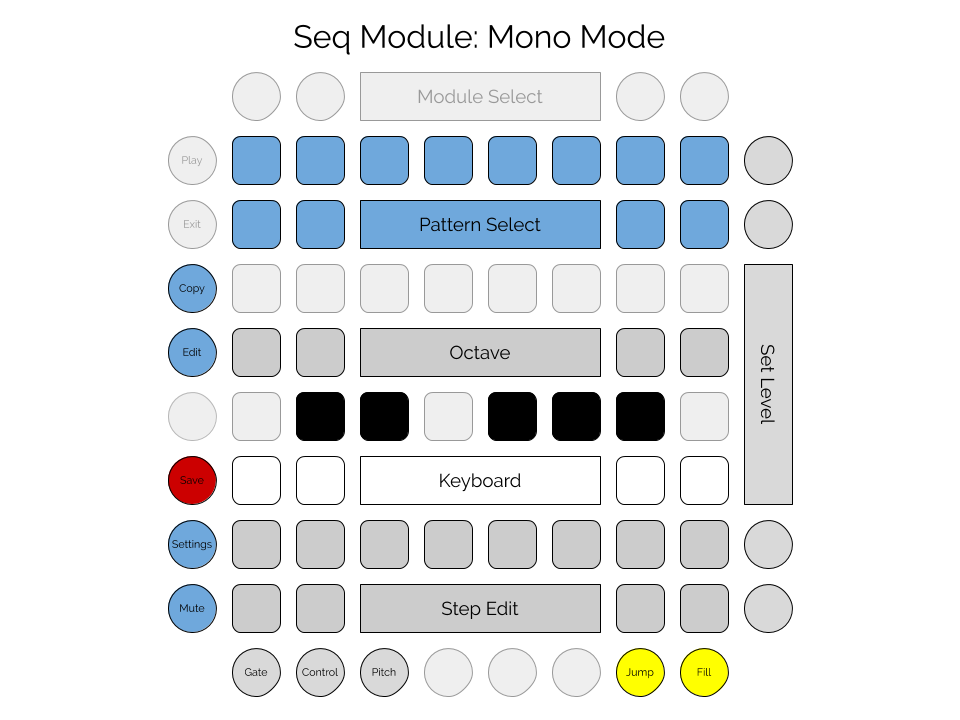
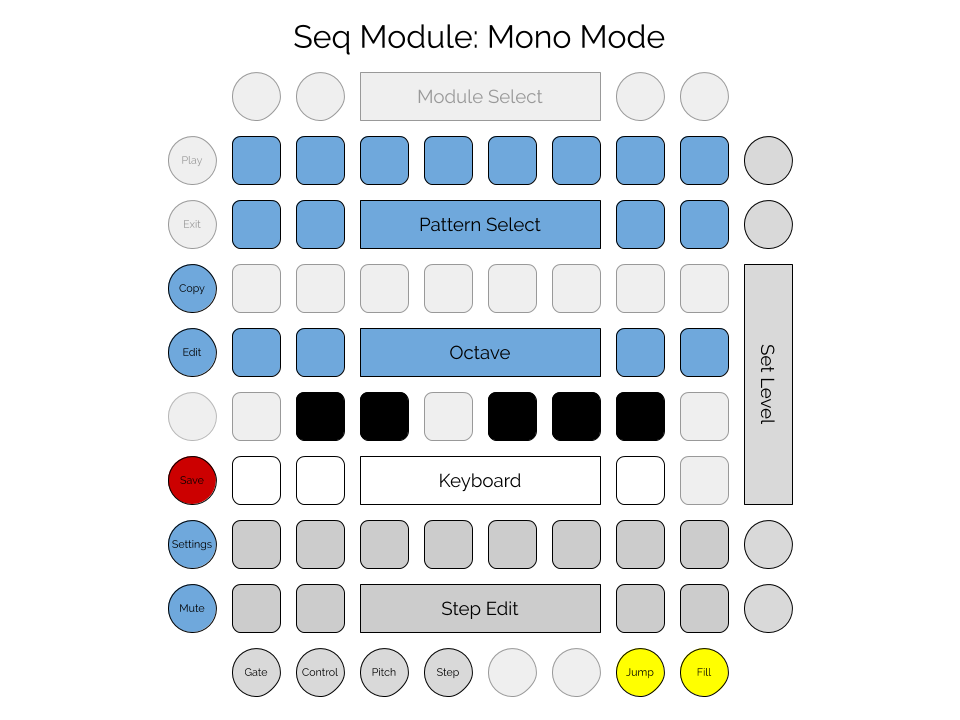
Added a step-entry view to the Seq mono mode

Changed region(s): [[0.2188, 0.4583, 0.7812, 0.5194], [0.4375, 0.9167, 0.5, 0.9472]]

diff --git a/src/main/java/net/perkowitz/issho/hachi/modules/seq/SeqModule.java b/src/main/java/net/perkowitz/issho/hachi/modules/seq/SeqModule.java
@@ -25,8 +25,7 @@ import java.util.Set;
 
 import static net.perkowitz.issho.hachi.modules.seq.SeqStep.GateMode.*;
 import static net.perkowitz.issho.hachi.modules.seq.SeqUtil.*;
-import static net.perkowitz.issho.hachi.modules.seq.SeqUtil.EditMode.CONTROL;
-import static net.perkowitz.issho.hachi.modules.seq.SeqUtil.EditMode.GATE;
+import static net.perkowitz.issho.hachi.modules.seq.SeqUtil.EditMode.*;
 import static net.perkowitz.issho.hachi.modules.seq.SeqUtil.SeqMode.BEAT;
 import static net.perkowitz.issho.hachi.modules.seq.SeqUtil.SeqMode.MONO;
 
@@ -59,6 +58,7 @@ public class SeqModule extends MidiModule implements Module, Clockable, GridList
     private int currentMeasure = 0;
     private int currentSeq = 0;
     private int currentPulse = 0;
+    private int currentOctave = 4;
 
     private SeqPatternFill patternFill = null;
 
@@ -397,6 +397,7 @@ public class SeqModule extends MidiModule implements Module, Clockable, GridList
     private void onControlPressed(GridControl control, int velocity) {
 
         control.press();
+//        System.out.printf("Control pressed: %s, %d\n", control, control.getIndex());
 
         // these controls apply in main view or settings view
         if (control.equals(settingsControl)) {
@@ -456,8 +457,41 @@ public class SeqModule extends MidiModule implements Module, Clockable, GridList
             step.setSemitone(index);
             seqDisplay.drawKeyboard(memory);
 
+        } else if (mode == MONO && editMode == STEP && keyboardControls.contains(control)) {
+            // have to check this before trackSelectControls
+            int index = keyboardControls.getIndex(control);
+            SeqStep step = memory.getSelectedTrack().getStep(selectedStep);
+            step.set(PLAY, index, currentOctave, velocity);
+            selectedStep = (selectedStep + 1) % STEP_COUNT;
+            memory.selectStep(selectedStep);
+            seqDisplay.drawKeyboard(memory);
+            seqDisplay.drawSteps(memory);
+            seqDisplay.drawModifiers(memory);
+
+        } else if (mode == MONO && editMode == STEP && stepRestControl.equals(control)) {
+            SeqStep step = memory.getSelectedTrack().getStep(selectedStep);
+            step.setGateMode(REST);
+            selectedStep = (selectedStep + 1) % STEP_COUNT;
+            memory.selectStep(selectedStep);
+            seqDisplay.drawKeyboard(memory);
+            seqDisplay.drawSteps(memory);
+            seqDisplay.drawModifiers(memory);
+
+        } else if (mode == MONO && editMode == STEP && stepTieControl.equals(control)) {
+            SeqStep step = memory.getSelectedTrack().getStep(selectedStep);
+            step.setGateMode(TIE);
+            selectedStep = (selectedStep + 1) % STEP_COUNT;
+            memory.selectStep(selectedStep);
+            seqDisplay.drawKeyboard(memory);
+            seqDisplay.drawSteps(memory);
+            seqDisplay.drawModifiers(memory);
+
+        } else if (mode == MONO && (editMode == GATE || editMode == STEP) && trackSelectControls.contains(control)) {
+            // if it's in the trackSelectControls but not in the keyboard, do nothing
+
         } else if (trackSelectControls.contains(control)) {
             int index = trackSelectControls.getIndex(control);
+            System.out.printf("Trk select: %d\n", index);
             switch (editMode) {
                 case GATE:
                     if (mode == BEAT) {
@@ -483,35 +517,17 @@ public class SeqModule extends MidiModule implements Module, Clockable, GridList
                     break;
             }
 
-        } else if (mode == MONO && octaveControls.contains(control)) {
+        } else if (mode == MONO && editMode == GATE && octaveControls.contains(control)) {
             int index = octaveControls.getIndex(control);
             SeqStep step = memory.getSelectedTrack().getStep(selectedStep);
             step.setOctave(index);
             seqDisplay.drawModifiers(memory);
 
-        } else if (mode == MONO && keyboardControls.contains(control)) {
-            int index = keyboardControls.getIndex(control);
-            switch (editMode) {
-                case GATE:
-                    SeqStep step = memory.getSelectedTrack().getStep(selectedStep);
-                    step.setSemitone(index);
-                    seqDisplay.drawKeyboard(memory);
-                    break;
-                case CONTROL:
-                    memory.selectControlTrack(index);
-                    seqDisplay.drawTracks(memory);
-                    seqDisplay.drawControlSteps(memory);
-                    break;
-                case PITCH:
-                    // doesn't do anything in pitch mode
-                    break;
-                case JUMP:
-                    // track buttons play a sound in jump mode
-                    SeqTrack track = memory.getSelectedPattern().getTrack(index);
-                    sendMidiNote(memory.getMidiChannel(), track.getNoteNumber(), velocity);
-                    seqDisplay.drawControlHighlight(control, true);
-                    break;
-            }
+        } else if (mode == MONO && editMode == STEP && octaveControls.contains(control)) {
+            int index = octaveControls.getIndex(control);
+            currentOctave = index;
+            seqDisplay.setCurrentOctave(currentOctave);
+            seqDisplay.drawModifiers(memory);
 
         } else if (stepControls.contains(control)) {
             int index = stepControls.getIndex(control);
@@ -554,9 +570,14 @@ public class SeqModule extends MidiModule implements Module, Clockable, GridList
             int index = editModeControls.getIndex(control);
             editMode = EditMode.values()[index];
             seqDisplay.setEditMode(editMode);
-            seqDisplay.drawEditMode();
-            seqDisplay.drawSteps(memory);
-            seqDisplay.drawTracks(memory);
+            seqDisplay.redraw(memory);
+
+        } else if (mode == MONO && stepControl.equals(control)) {
+            editMode = STEP;
+            selectedStep = 0;
+            memory.selectStep(0);
+            seqDisplay.setEditMode(editMode);
+            seqDisplay.redraw(memory);
 
         } else if (jumpControl.equals(control)) {
             editMode = EditMode.JUMP;

diff --git a/src/main/java/net/perkowitz/issho/hachi/modules/seq/SeqDisplay.java b/src/main/java/net/perkowitz/issho/hachi/modules/seq/SeqDisplay.java
@@ -36,6 +36,7 @@ public class SeqDisplay {
     @Setter private SeqMode mode = BEAT;
     @Setter private EditMode editMode = GATE;
     @Setter private SeqStep playingStep = null;
+    @Setter private int currentOctave = 0;
 
 
     public SeqDisplay(GridDisplay display) {
@@ -51,12 +52,9 @@ public class SeqDisplay {
     public void redraw(SeqMemory memory) {
         if (!settingsView) {
             drawPatterns(memory);
-            if (mode == MONO && editMode == GATE) {
-                drawKeyboard(memory);
-                drawModifiers(memory);
-            } else {
-                drawTracks(memory);
-            }
+            drawKeyboard(memory);
+            drawModifiers(memory);
+            drawTracks(memory);
             drawSteps(memory);
             drawLeftControls();
             drawValue(0, 7);
@@ -162,7 +160,7 @@ public class SeqDisplay {
 
         if (settingsView) return;
 
-        if (mode == BEAT && editMode != CONTROL) {
+        if (mode == BEAT && editMode != CONTROL ) {
             SeqTrack track = memory.getSelectedPattern().getTrack(index);
             if (track == null) {
                 return;
@@ -192,7 +190,7 @@ public class SeqDisplay {
             }
             GridControl muteControl = SeqUtil.trackMuteControls.get(index);
             muteControl.draw(display, color);
-        } else {
+        } else if (mode == BEAT) {
             trackMuteControls.draw(display, Color.OFF);
         }
     }
@@ -215,7 +213,7 @@ public class SeqDisplay {
             GridControl control = SeqUtil.stepControls.get(index);
             Color color = palette.get(COLOR_STEP_REST);
             boolean selected = (memory.getSelectedStepIndex() == index);
-            if (editMode == GATE) {
+            if (editMode == GATE || editMode == STEP) {
                 switch (track.getStep(index).getGateMode()) {
                     case PLAY:
                         color = palette.get(COLOR_STEP_PLAY);
@@ -243,7 +241,10 @@ public class SeqDisplay {
 
         if (settingsView) return;
 
-        if (editMode == GATE) {
+        if (mode != MONO) return;
+
+        if (editMode == GATE || editMode == STEP) {
+            keyboardBackgroundControls.draw(display, Color.OFF);
             SeqStep step = memory.getSelectedTrack().getStep(memory.getSelectedStepIndex());
             for (GridControl control : keyboardControls.getControls()) {
                 Color color = Color.OFF;
@@ -258,10 +259,14 @@ public class SeqDisplay {
                     // it's a black key
                     color = palette.get(COLOR_KEY_BLACK);
                 } else if (pad != null && pad.getY() == KEYBOARD_WHITE_ROW) {
-                    // it's a black key
+                    // it's a white key
                     color = palette.get(COLOR_KEY_WHITE);
                 }
                 control.draw(display, color);
+            }
+            if (editMode == STEP) {
+                stepTieControl.draw(display, STEP_TIE_COLOR);
+                stepRestControl.draw(display, STEP_REST_COLOR);
             }
         }
     }
@@ -270,10 +275,14 @@ public class SeqDisplay {
 
         if (settingsView) return;
 
-        if (mode == MONO && editMode == GATE) {
+        if (mode == MONO && (editMode == GATE || editMode == STEP)) {
             SeqStep step = memory.getSelectedTrack().getStep(memory.getSelectedStepIndex());
             octaveControls.draw(display, palette.get(COLOR_PATTERN));
-            octaveControls.get(step.getOctave()).draw(display, palette.get(COLOR_PATTERN_SELECTED));
+            if (editMode == STEP) {
+                octaveControls.get(currentOctave).draw(display, palette.get(COLOR_PATTERN_SELECTED));
+            } else {
+                octaveControls.get(step.getOctave()).draw(display, palette.get(COLOR_PATTERN_SELECTED));
+            }
             if (playingStep != null) {
                 octaveControls.get(playingStep.getOctave()).draw(display, palette.get(COLOR_PATTERN_PLAYING));
             }
@@ -352,8 +361,18 @@ public class SeqDisplay {
             control.draw(display, color);
         }
 
+        // step view is in mono mode only
+        Color color = Color.OFF;
+        if (mode == MONO) {
+            color = palette.get(COLOR_OFF);
+            if (editMode == STEP) {
+                color = palette.get(COLOR_ON);
+            }
+        }
+        stepControl.draw(display, color);
+
         // jump mode is elsewhere and uses highlight colors
-        Color color = palette.get(COLOR_OFF);
+        color = palette.get(COLOR_OFF);
         if (editMode == JUMP) {
             color = palette.get(COLOR_HIGHLIGHT);
         }

diff --git a/src/main/java/net/perkowitz/issho/hachi/modules/seq/SeqUtil.java b/src/main/java/net/perkowitz/issho/hachi/modules/seq/SeqUtil.java
@@ -31,7 +31,7 @@ public class SeqUtil {
         BEAT, MONO, PARA
     }
     public enum EditMode {
-        GATE, CONTROL, PITCH, JUMP
+        GATE, CONTROL, PITCH, STEP, JUMP
     }
 
     public static int[] BEAT_TRACK_NOTES = new int[] { 49, 37, 39, 51, 42, 44, 46, 50,
@@ -70,7 +70,11 @@ public class SeqUtil {
         keys.add(new GridControl(GridPad.at(6, KEYBOARD_WHITE_ROW), 11));
     }
     public static GridControlSet keyboardControls = new GridControlSet(keys);
+    public static GridControlSet keyboardBackgroundControls = GridControlSet.padRows(KEYBOARD_BLACK_ROW, KEYBOARD_WHITE_ROW);
 
+    // modifiers & step controls
+    public static GridControl stepRestControl = new GridControl(GridPad.at(7, KEYBOARD_BLACK_ROW), 0);
+    public static GridControl stepTieControl = new GridControl(GridPad.at(7, KEYBOARD_WHITE_ROW), 0);
 
     // left controls
     public static GridControl muteControl = new GridControl(GridButton.at(Left, 7), null);
@@ -81,11 +85,21 @@ public class SeqUtil {
 
     // edit mode controls
     public static GridControlSet editModeControls = GridControlSet.buttonSide(Bottom, 0, 2);
+    public static GridControl stepControl = new GridControl(GridButton.at(Bottom, 3), null);
     public static GridControl jumpControl = new GridControl(GridButton.at(Bottom, 6), null);
     public static GridControl fillControl = new GridControl(GridButton.at(Bottom, 7), null);
 
 
     /***** colors **********************************************************/
+
+    // special modifier colors
+    public static Color STEP_TIE_COLOR = Color.BRIGHT_PURPLE;
+    public static Color STEP_REST_COLOR = Color.DIM_PURPLE;
+    public static Color MOD_HOLD_COLOR = Color.BRIGHT_PURPLE;
+    public static Color MOD_STUTTER_COLOR = Color.BRIGHT_PINK;
+    public static Color MOD_NO_HOLD_COLOR = Color.DIM_PURPLE;
+    public static Color MOD_SKIP_COLOR = Color.BRIGHT_RED;
+    public static Color MOD_LEGATO_COLOR = Color.DIM_BLUE_GREEN;
 
     // give color indices some easy names to refer to
     public static Integer COLOR_OFF = 0;

diff --git a/src/main/java/net/perkowitz/issho/hachi/modules/seq/SeqStep.java b/src/main/java/net/perkowitz/issho/hachi/modules/seq/SeqStep.java
@@ -86,6 +86,13 @@ public class SeqStep {
         }
     }
 
+    public void set(GateMode gateMode, int semitone, int octave, int velocity) {
+        this.gateMode = gateMode;
+        this.semitone = semitone;
+        this.octave = octave;
+        this.velocity = velocity;
+    }
+
     public void incrementVelocity() {
         setVelocity(velocity + 1);
     }

diff --git a/doc/hachi/modules/seq.md b/doc/hachi/modules/seq.md
@@ -26,7 +26,7 @@ the files can be copied, backed up, and shared. Data is saved in a JSON format.
 - Save: saves the current memory contents to the current file.
 - Copy: for copying patterns.
 - Edit: for selecting a pattern to edit other than the currently running pattern.
-- Edit view buttons: select gate, control, or pitch.
+- Edit view buttons: select gate, control, pitch, and step.
 - Jump view: selects the jump view rather than one of the edit views.
 - Fill: plays fill patterns while held down.  
 
@@ -155,6 +155,17 @@ Every step has a semitone and octave setting, even if the step is disabled. As i
 steps can be set to PLAY, REST, or TIE by tapping the step pad, and the velocity can be set with the value pads.
 To select a step without changing the play setting, press and hold for half a second. 
  
+### Step view
+
+Step view allows notes to be entered in sequence, without selecting steps in between. When the step view
+is entered, the first step in the track will be selected. Every time a keyboard pad is tapped, the selected
+step will be set to that semitone and the next step will be selected. Tapping the octave pads will select the 
+octave value to be set for the next step; change the octave at any time to affect the next step entered.
+The velocity used to tap the keyboard pad will be stored as the step's velocity. To enter a rest or tie
+a previous note, tap the rest or tie pads next to the keyboard.  
+
+<img width="960px" src="seq-mono-step.png"/> 
+
 ### Other views
 
 The control, pitch, jump, and fill views function the same in Mono mode as they do in Beat mode.
